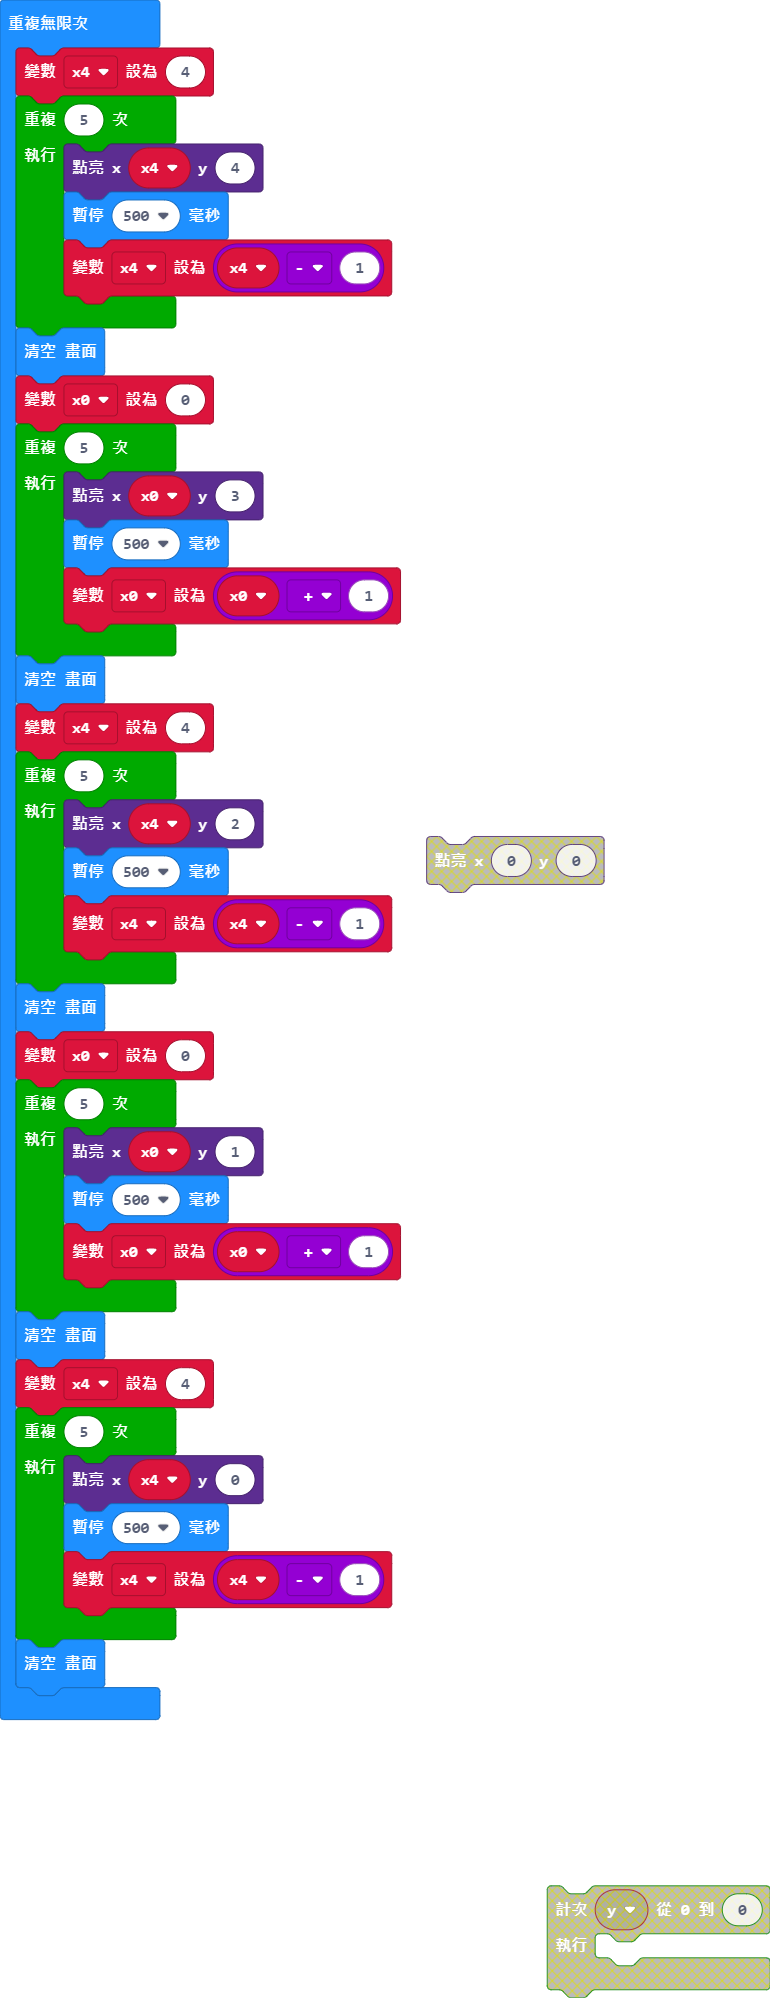
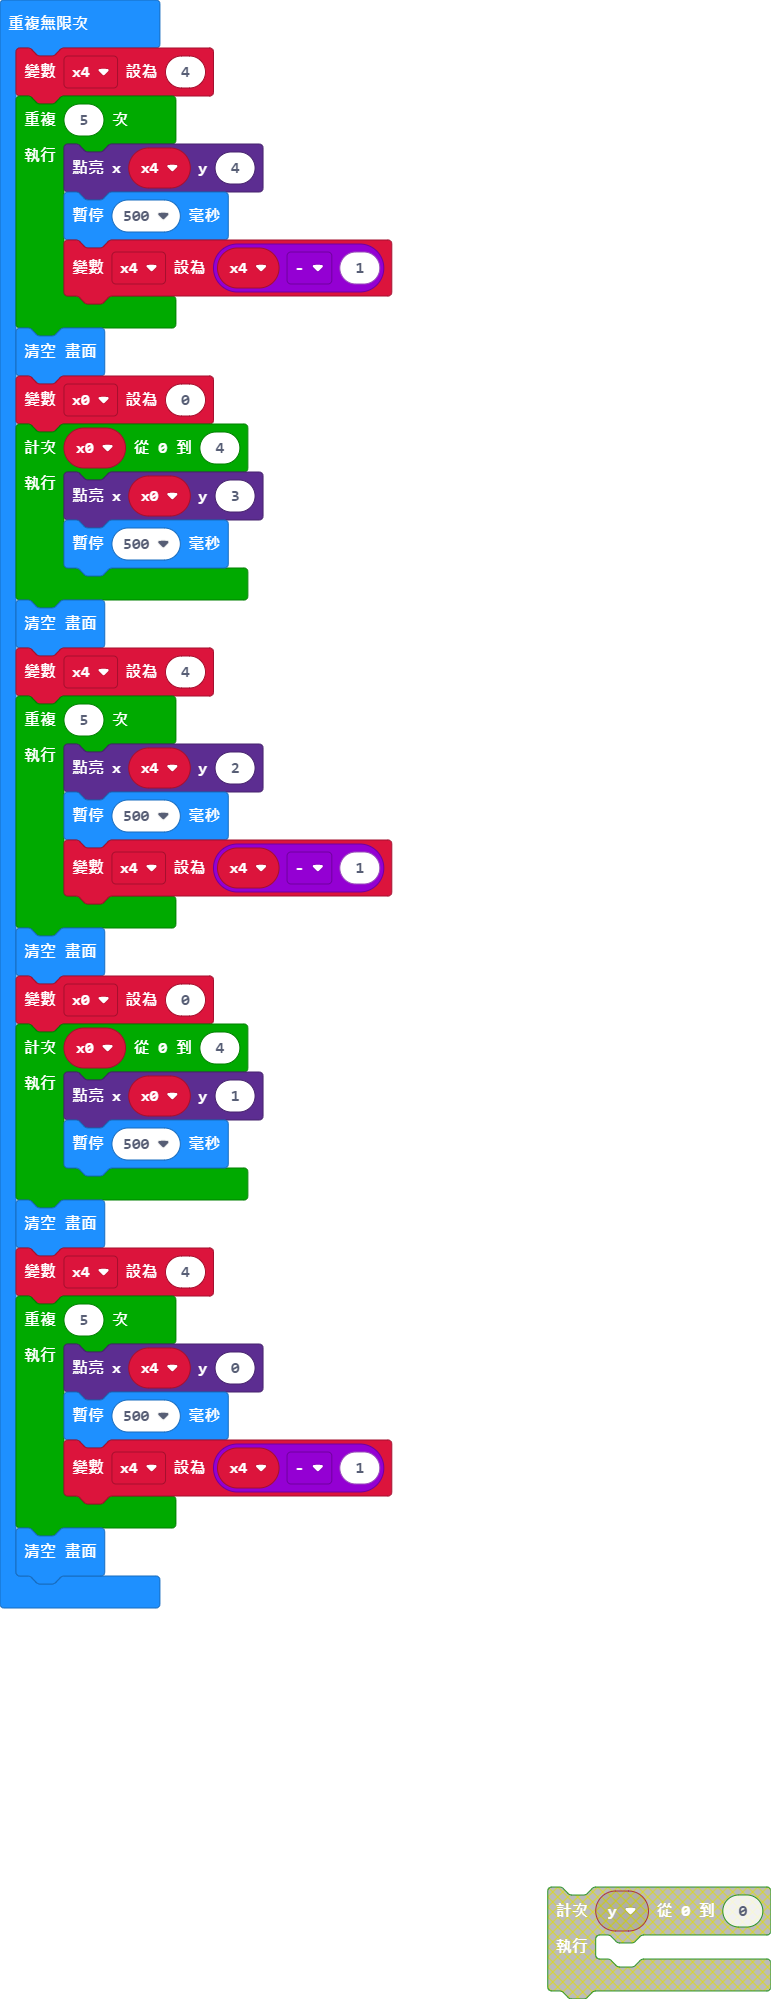
Update main.blocks, main.ts

Changed region(s): [[0.0, 0.1552, 0.8104, 0.8689], [0.7169, 0.9309, 1.0, 1.0]]

diff --git a/main.ts b/main.ts
@@ -9,10 +9,9 @@ basic.forever(function () {
     }
     basic.clearScreen()
     x0 = 0
-    for (let index = 0; index < 5; index++) {
+    for (let x0 = 0; x0 <= 4; x0++) {
         led.plot(x0, 3)
         basic.pause(500)
-        x0 = x0 + 1
     }
     basic.clearScreen()
     x4 = 4
@@ -23,10 +22,9 @@ basic.forever(function () {
     }
     basic.clearScreen()
     x0 = 0
-    for (let index = 0; index < 5; index++) {
+    for (let x0 = 0; x0 <= 4; x0++) {
         led.plot(x0, 1)
         basic.pause(500)
-        x0 = x0 + 1
     }
     basic.clearScreen()
     x4 = 4
